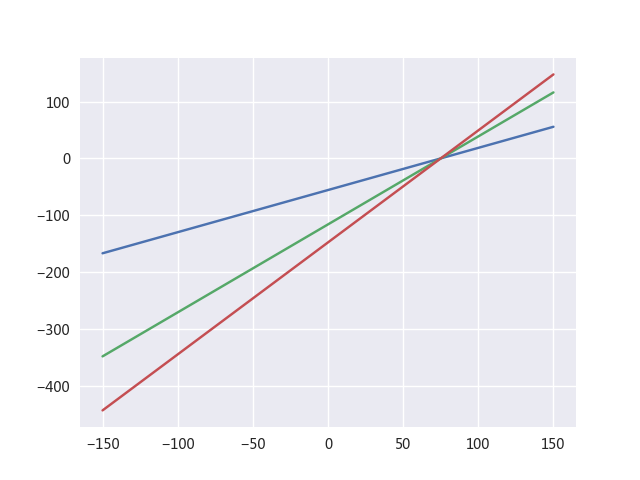
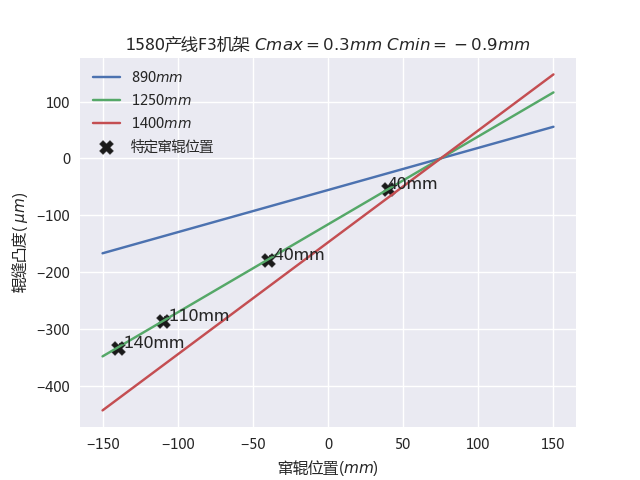
add plots in pofile

diff --git a/rollen/profile/plots.py b/rollen/profile/plots.py
@@ -1,0 +1,42 @@
+import numpy as np
+import seaborn as sns
+import matplotlib.pyplot as plt
+
+from .cvc import ContinuouslyVariableCrown
+sns.set(color_codes=True)
+sns.set(rc={'font.family': [u'Microsoft YaHei']})
+sns.set(rc={'font.sans-serif': [u'Microsoft YaHei', u'Arial',
+                                u'Liberation Sans', u'Bitstream Vera Sans',
+                                u'sans-serif']})
+
+
+def plot_shfts_crns(line, std, wids, shfts, max_crn=None, min_crn=None):
+    plt.figure()
+
+    for wid in wids:
+        cvc = ContinuouslyVariableCrown(line, std, wid, max_crn, min_crn)
+        cvc.plot_shft_crn()
+
+    cvc = ContinuouslyVariableCrown(line, std, wids[1], max_crn, min_crn)
+
+    plt.scatter(
+        shfts,
+        cvc.calc_crns(shfts),
+        marker="X",
+        s=100,
+        c="k",
+        label="特定窜辊位置"
+    )
+
+    # text
+    for shft in shfts:
+        plt.text(shft, cvc.calc_crns(shft), "{}mm".format(shft))
+    plt.legend()
+
+    plt.title("{}产线 F{}机架 $Cmax={}mm$ $Cmin={}mm$".format(
+        line, std, cvc.max_crn, cvc.min_crn))
+    plt.xlabel("窜辊位置($mm$)")
+    plt.ylabel("辊缝凸度( $\mu m$)")
+
+    plt.savefig("plot_shft_crn.png")
+    plt.close("all")

diff --git a/rollen/profile/cvc.py b/rollen/profile/cvc.py
@@ -165,24 +165,7 @@ class ContinuouslyVariableCrown():
     def plot_shft_crn(self):
         plt.plot(self.get_shft_array(),
                  self.calc_crns(self.get_shft_array()),
-                 label=self.wid)
+                 label="{}$mm$".format(self.wid))
 
     def plot_prof(self):
         pass
-
-
-def plot_shfts_crns(line, std, wids, shfts):
-    plt.figure()
-    for wid in wids:
-        cvc = ContinuouslyVariableCrown(line, std, wid)
-        cvc.plot_shft_crn()
-
-    cvc = ContinuouslyVariableCrown(line, std, wids[1])
-    plt.plot(
-        shfts,
-        cvc.calc_crns(shfts),
-        'r+',
-        label="特定窜辊位置"
-    )
-    plt.savefig("plot_shft_crn.png")
-    plt.close("all")

diff --git a/rollen/profile/__init__.py b/rollen/profile/__init__.py
@@ -1,2 +1,3 @@
 from .cvc import ContinuouslyVariableCrown
-from .cvc import plot_shfts_crns
+
+from .plots import plot_shfts_crns
